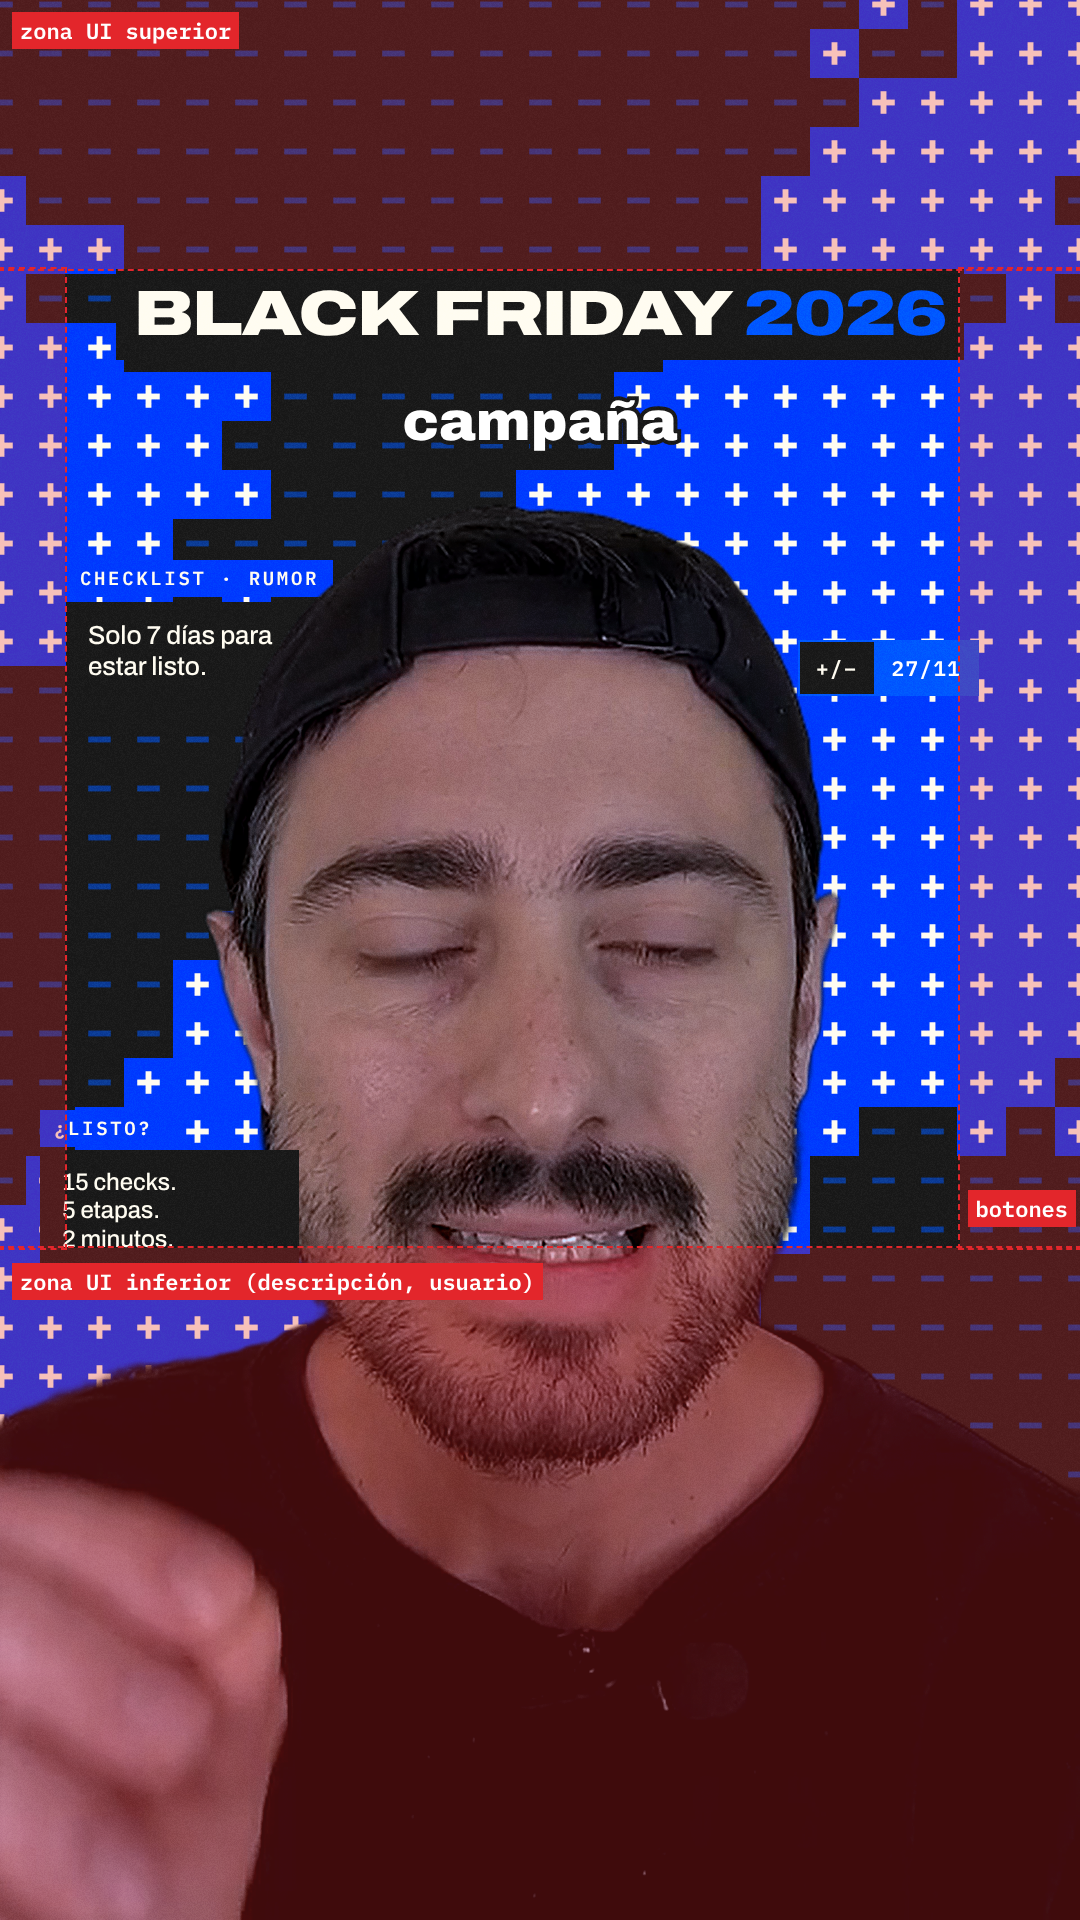
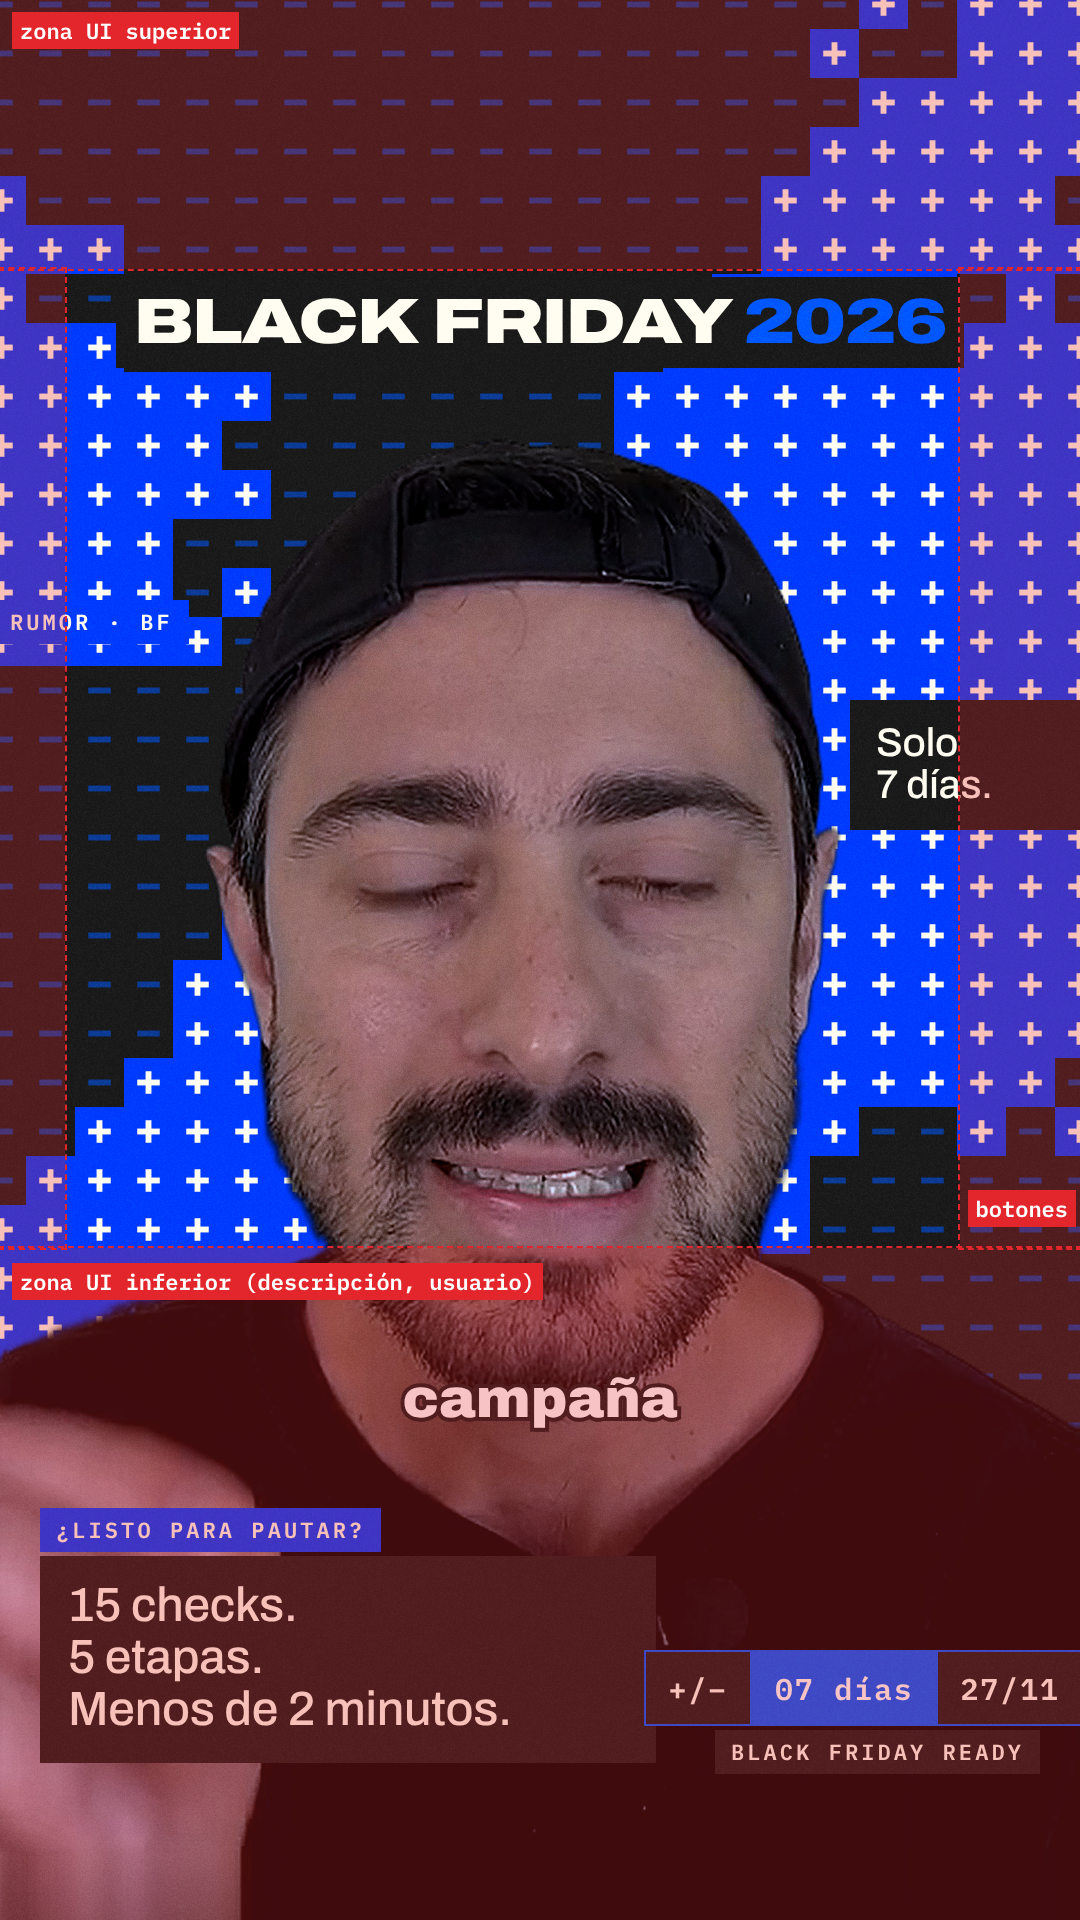
Reel BF: subtítulo bajo la barbilla y recuadros más grandes y sueltos
Claude-Session: https://claude.ai/code/session_012Fnto9jpQe32MrKx8Y2jJE

diff --git a/video/reel/prueba.html b/video/reel/prueba.html
@@ -14,7 +14,7 @@
   #bg{display:block;width:100%;height:100%}
 
   /* Título fijo arriba (dentro de zona segura) */
-  .title{position:absolute;left:0;right:0;top:282px;text-align:center;font-weight:900;font-stretch:125%;font-variation-settings:"wdth" 125;
+  .title{position:absolute;left:0;right:0;top:290px;text-align:center;font-weight:900;font-stretch:125%;font-variation-settings:"wdth" 125;
     font-size:64px;line-height:1;letter-spacing:-.02em;text-transform:uppercase}
   .title em{font-style:normal;color:var(--blue2)}
   .title span{background:var(--black);padding:10px 18px 12px}
@@ -24,7 +24,7 @@
   .tag{position:absolute;background:var(--blue);color:var(--paper);font-family:"IBM Plex Mono",monospace;font-weight:600;font-size:19px;letter-spacing:.14em;text-transform:uppercase;padding:9px 14px;line-height:1}
   .tag.k{background:var(--black);color:var(--paper)}
   .seg{position:absolute;display:flex;font-family:"IBM Plex Mono",monospace;font-weight:600;font-size:21px;letter-spacing:.06em}
-  .seg i{font-style:normal;display:block;padding:12px 16px;border:2px solid var(--blue2);margin-left:-2px;background:var(--black);color:var(--paper)}
+  .seg i{font-style:normal;display:block;padding:.55em .75em;border:2px solid var(--blue2);margin-left:-2px;background:var(--black);color:var(--paper)}
   .seg i.on{background:var(--blue2);color:#fff}
 
   /* Sujeto */
@@ -37,11 +37,11 @@
   .frame i{position:absolute;width:12px;height:12px;background:var(--paper)}
   .frame i:nth-child(1){left:-7px;top:-7px}.frame i:nth-child(2){right:-7px;top:-7px}
   .frame i:nth-child(3){left:-7px;bottom:-7px}.frame i:nth-child(4){right:-7px;bottom:-7px}
-  #sujeto{position:absolute;left:0;bottom:0;width:1080px}
+  #sujeto{position:absolute;left:0;top:-89px;width:1080px}  /* cabeza en y≈440, mentón ≈1300 */
 
   /* Subtítulo: una palabra, posición fija */
   /* Subtítulo: una palabra, posición fija. 55 px = tamaño 55 de Premiere en secuencia 1080×1920 */
-  .sub{position:absolute;left:0;right:0;top:395px;text-align:center;font-family:"Archivo Black","Arial Black",Arial,sans-serif;font-size:55px;line-height:1;
+  .sub{position:absolute;left:0;right:0;top:1372px;text-align:center;font-family:"Archivo Black","Arial Black",Arial,sans-serif;font-size:55px;line-height:1;
     color:#fff;-webkit-text-stroke:8px var(--black);paint-order:stroke fill;text-shadow:0 4px 0 var(--black)}
 
   #grain{position:absolute;inset:0;width:100%;height:100%;mix-blend-mode:soft-light;opacity:.22;pointer-events:none}
@@ -57,16 +57,17 @@
 <div id="stage">
   <canvas id="bg" class="layer" width="1080" height="1920"></canvas>
 
-  <!-- detrás del sujeto (asoman a los costados de la cabeza) -->
-  <div class="tag" style="left:66px;top:560px">Checklist · Rumor</div>
-  <div class="box" style="left:66px;top:602px;width:220px;font-size:26px">Solo 7 días para estar listo.</div>
-  <div class="seg" style="left:800px;top:640px"><i>+/−</i><i class="on">27/11</i></div>
+  <!-- detrás del sujeto: asoman a los costados y se van por los bordes -->
+  <div class="tag" style="left:-6px;top:600px;font-size:22px;padding:11px 16px">Rumor · BF</div>
+  <div class="box" style="left:850px;top:700px;width:260px;font-size:40px;line-height:1.05;padding:22px 26px 24px">Solo<br>7 días.</div>
 
   <img id="sujeto" src="prueba/sujeto-completo.png" alt="">
 
-  <!-- delante del sujeto (al costado de la cara, sin taparla) -->
-  <div class="tag" style="left:40px;top:1110px">¿Listo?</div>
-  <div class="box" style="left:40px;top:1150px;width:215px;font-size:24px">15 checks.<br>5 etapas.<br>2 minutos.</div>
+  <!-- delante del sujeto: parte baja del cuadro, más grandes y sueltos -->
+  <div class="tag" style="left:40px;top:1508px;font-size:22px;padding:11px 16px">¿Listo para pautar?</div>
+  <div class="box" style="left:40px;top:1556px;width:560px;font-size:48px;line-height:1.08;padding:24px 28px 28px">15 checks.<br>5 etapas.<br>Menos de 2 minutos.</div>
+  <div class="seg" style="right:-4px;top:1650px;font-size:30px"><i>+/−</i><i class="on">07 días</i><i>27/11</i></div>
+  <div class="tag k" style="right:40px;top:1730px;font-size:22px;padding:11px 16px">Black Friday ready</div>
 
   <div class="title"><span>Black Friday <em>2026</em></span></div>
   <div class="sub" id="sub">campaña</div>
